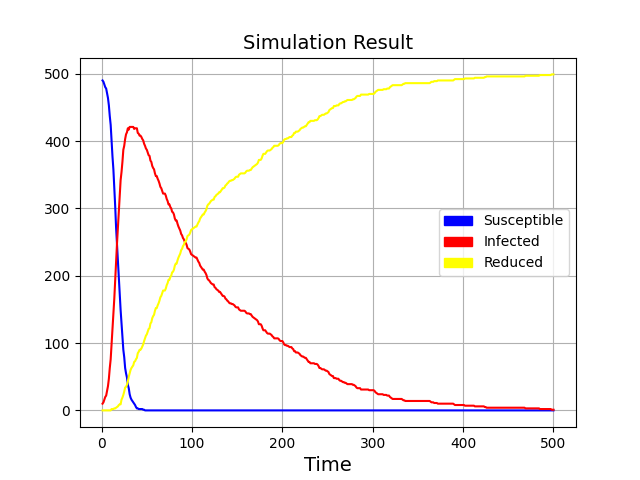
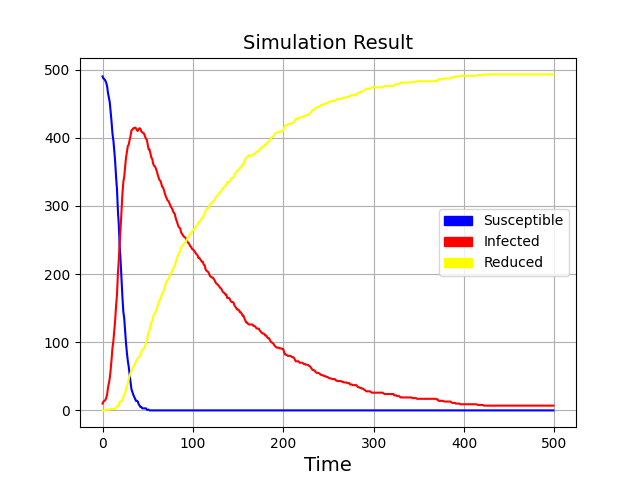
Stream RNG
- Si da la possibilità all'utente di settare il seed iniziale della simulazione, per poter replicare le simulazioni (c'è un unico stream per generazione graf e generazione random variate)

- Aggiunto calcolo del tempo impiegato per simulazione e generazione grafi

diff --git a/epidemic_sim.py b/epidemic_sim.py
@@ -5,7 +5,7 @@ import matplotlib.pyplot as plt
 import matplotlib.patches as mpatches
 import math
 from itertools import islice
-from random import randint
+# from random import randint
 import time
 import yaml
 import sys
@@ -23,6 +23,8 @@ step_p_day = 0  # number of step per day
 n_step_home = 0  # number of step at home
 n_step_work = 0  # number of step at work/school
 fr_station_user = 0  # fraction of people that use train station
+initial_seed = 0
+rg1 = None
 
 # COUNTS
 n = 0  # number of total node
@@ -58,7 +60,7 @@ precision_ctrl = True  # if True the simulator choose if the node change state w
 def generate_partitions(input_list, min_size=1, max_size=6):
     it = iter(input_list)
     while True:
-        nxt = list(islice(it, randint(min_size, max_size)))
+        nxt = list(islice(it, rg1.randint(min_size, max_size)))
         if nxt:
             yield nxt
         else:
@@ -114,7 +116,7 @@ def create_partions():
     global people_tot
     global fr_station_user
 
-    random.shuffle(people_tot)
+    rg1.shuffle(people_tot)
     n_station_user = int(fr_station_user * n)
     station_partitions = list(generate_partitions(people_tot[:n_station_user], 20, 100))
     public_transport_partitions = list(generate_partitions(people_tot[n_station_user:], 5, 40))
@@ -164,6 +166,7 @@ def first_validation(validation_type):
     global r_list
     global step_p_day
     global people_tot
+    global initial_seed
 
     with open("config_files/" + str(validation_type) + "_input.yaml", 'r') as stream:
         data = yaml.safe_load(stream)
@@ -174,6 +177,7 @@ def first_validation(validation_type):
         sigma = data["sigma"]
         gamma = data["gamma"]
         fr_inf = data["fr_inf"]
+        initial_seed = data["seed"]
         step_p_day = 1
         print("\nGraph and Time Parameters: \n")
         print("Number of Nodes: .......... " + str(n))
@@ -189,9 +193,13 @@ def first_validation(validation_type):
     # gamma = 1 - numpy.nextafter(1., 0.)
     # sigma = 50  # sys.maxsize #genero numero molto grande
     n_inf = int(fr_inf * n)
-    graph = gm.nx.erdos_renyi_graph(n, 0.05)
+
     flush_structures()
     initialize()
+    if initial_seed != 0:
+        graph = gm.nx.erdos_renyi_graph(n, 0.05, seed=rg1)
+    else:
+        graph = gm.nx.erdos_renyi_graph(n, 0.05)
     initialize_infected()
     interval_tot = n_days * step_p_day
     sim_SIR(graph, 0, interval_tot)
@@ -218,6 +226,7 @@ def second_validation(graphic_name):
     global r_list
     global step_p_day
     global people_tot
+    global initial_seed
 
     with open("config_files/" + str(graphic_name) + "_input.yaml", 'r') as stream:
         data = yaml.safe_load(stream)
@@ -229,6 +238,7 @@ def second_validation(graphic_name):
         gamma = data["gamma"]
         fr_inf = data["fr_inf"]
         step_p_day = data["step_p_day"]
+        initial_seed = data["seed"]
         print("\nGraph and Time Parameters: \n")
         print("Number of Nodes: .......... " + str(n))
         print("n days: ................... " + str(n_days))
@@ -242,11 +252,16 @@ def second_validation(graphic_name):
         print()
 
     n_inf = int(fr_inf * n)
-    graph = gm.nx.erdos_renyi_graph(n, 0.05)
+    if initial_seed != 0:
+        graph = gm.nx.erdos_renyi_graph(n, 0.05, seed=rg1)
+    else:
+        graph = gm.nx.erdos_renyi_graph(n, 0.05)
     flush_structures()
     initialize()
     initialize_infected()
     interval_tot = n_days * step_p_day
+    print(step_p_day)
+    input()
     sim_SIR(graph, 0, interval_tot)
     print_SIR_count()
     plot_SIR_result(graphic_name + "_" + str(step_p_day) + "_steps")
@@ -285,7 +300,7 @@ def flush_structures():
 
 
 def create_families_network():
-    random.shuffle(people_tot)
+    rg1.shuffle(people_tot)
     families = list(generate_partitions(people_tot, min_family_size, max_familiy_size))
     # print("families: " + str(families))
     temp_graphs = []
@@ -295,7 +310,7 @@ def create_families_network():
 
 
 def create_school_work_network():
-    random.shuffle(people_tot)
+    rg1.shuffle(people_tot)
     office_partitions = list(generate_partitions(people_tot[:n_stud], min_office_size, max_office_size))
     school_partitions = list(
         generate_partitions(people_tot[n_stud:(n_stud + n_employs)], min_school_size, max_school_size))
@@ -308,7 +323,11 @@ def create_school_work_network():
         temp_graphs.append(gm.create_school_graph(school, 0.3))
     return gm.nx.union_all(temp_graphs)
 
-
+def set_random_stream():
+    if initial_seed != 0:
+        return random.Random(initial_seed)
+    else:
+       return random.Random()
 def initialize():
     global clock
     global fr_inf
@@ -320,11 +339,13 @@ def initialize():
     global e_list
     global i_list
     global r_list
+    global seed
+    global rg1
 
-    random.seed(a=None)
+    rg1 = set_random_stream()
     clock = 0
     people_tot = [elm for elm in range(0, n)]
-    random.shuffle(people_tot)
+    rg1.shuffle(people_tot)
     initial_i = [el for el in people_tot[:n_inf]]
     i_list = [[el, 0] for el in initial_i]
     for elm in people_tot:
@@ -336,7 +357,7 @@ def initialize():
 
 def initialize_infected():
     for infect in i_list:
-        infect[1] = random.expovariate(gamma)
+        infect[1] = rg1.expovariate(gamma)
 
 
 def is_infected(elem):
@@ -366,17 +387,24 @@ def simulate():
     initialize_infected()
     print("Infetti iniziali")
     print(i_list)
+    start_time = time.time()
     fam_graph = create_families_network()
     office_school_graph = create_school_work_network()
+    end_time = time.time()
+    duration = round((end_time - start_time), 3)
+    print("Duration Graph Creation: " + str(duration) + " Seconds")
+    start_time = time.time()
     for day in range(0, n_days):
         print("day " + str(day))
         # SIMULAZIONE PRIMO CICLO
         sim_SEIR(fam_graph, day, day + n_step_home)
 
         # SIMULAZIONE SECONDO CICLO
-
-
         sim_SEIR(office_school_graph, day + n_step_home, day + n_step_home + n_step_work)
+
+    end_time = time.time()
+    duration = round((end_time - start_time), 3)
+    print("Duration SEIR Simulation: " + str(duration) + " Seconds")
 
     plot_SEIR_result("prova1")
     print_SEIR_count()
@@ -395,7 +423,6 @@ def simulate_1():
     global n_days
     global clock
     global step_p_day
-
 
     station_partitions = []
     public_transport_partitions = []
@@ -433,6 +460,7 @@ def sim_SIR(graph, start_t, end_t):
     global r_t
     global gamma
     global beta
+    global step_p_day
 
     gamma1 = gamma * (1 / step_p_day)
     beta1 = beta * (1 / step_p_day)
@@ -456,9 +484,9 @@ def sim_SIR(graph, start_t, end_t):
             ngbs = graph.neighbors(i_list[index][0])
             for ngb in ngbs:
                 if ngb in s_list:
-                    r = random.uniform(0.0, 1.0)
+                    r = rg1.uniform(0.0, 1.0)
                     if r < beta1:  # CONTAGIO
-                        duration_gamma = random.expovariate(gamma1)
+                        duration_gamma = rg1.expovariate(gamma1)
                         i_list.append([ngb, duration_gamma])
                         s_list.remove(ngb)
 
@@ -495,7 +523,7 @@ def sim_SEIR(graph, start_t, end_t):
         for index in range(len(e_list) - 1, -1, -1):
             # E --> I
             if e_list[index][1] <= 0.5:
-                duration_gamma = random.expovariate(gamma1)
+                duration_gamma = rg1.expovariate(gamma1)
                 i_list.append([e_list[index][0], duration_gamma])
                 e_list.remove(e_list[index])
             else:
@@ -504,10 +532,10 @@ def sim_SEIR(graph, start_t, end_t):
             ngbs = graph.neighbors(i_list[index][0])
             for ngb in ngbs:
                 if ngb in s_list:
-                    r = random.uniform(0.0, 1.0)
+                    r = rg1.uniform(0.0, 1.0)
                     # S --> E
                     if r < beta1:
-                        duration_sigma = random.expovariate(sigma1)
+                        duration_sigma = rg1.expovariate(sigma1)
                         e_list.append([ngb, duration_sigma])
                         s_list.remove(ngb)
 
@@ -545,7 +573,7 @@ def sim_SEIRIneff(graph, start_t, end_t, part):
         for exp in e_list:
             if exp[0] in part:
                 if exp[1] <= 0:  # abbiamo superato la durata dell'esposizione generata
-                    duration_gamma = random.expovariate(gamma1)
+                    duration_gamma = rg1.expovariate(gamma1)
                     i_list.append([exp[0], duration_gamma])
                     e_list.remove(exp)
                 else:
@@ -556,9 +584,9 @@ def sim_SEIRIneff(graph, start_t, end_t, part):
                 ngbs = graph.neighbors(elem[0])
                 for ngb in ngbs:
                     if ngb in s_list:
-                        r = random.uniform(0.0, 1.0)
+                        r = rg1.uniform(0.0, 1.0)
                         if r < beta1:  # l'infetto contatta il vicino
-                            duration_sigma = random.expovariate(sigma)
+                            duration_sigma = rg1.expovariate(sigma)
                             e_list.append([ngb, duration_sigma])
                             s_list.remove(ngb)
 
@@ -668,7 +696,7 @@ def epidemic(graph, n_days):
 
     # scelgo random gli infetti iniziali
     list_nodes = list(graph.nodes())
-    random.shuffle(list_nodes)
+    rg1.shuffle(list_nodes)
     initial_infections = list_nodes[0:n_inf]
     sim = eon.fast_SIR(graph, beta, mu, initial_infecteds=initial_infections, tmax=n_days, return_full_data=True)
     t = sim.t()
@@ -744,6 +772,7 @@ def parse_input_file():
     global n_step_home
     global n_step_work
     global n_days
+    global initial_seed
 
     with open("config_files/graph_and_time_parameters.yaml", 'r') as stream:
         data = yaml.safe_load(stream)
@@ -760,6 +789,7 @@ def parse_input_file():
         max_school_size = data["max_school_size"]
         min_office_size = data["min_office_size"]
         max_office_size = data["max_office_size"]
+        initial_seed = data["seed"]
         step_p_day = n_step_home + n_step_work
 
         print("\nGraph and Time Parameters: \n")
@@ -787,7 +817,6 @@ def parse_input_file():
         print("Gamma: .................... " + str(gamma))
         print("Number Initial Infected: .. " + str(n_inf))
         print()
-        step_p_day = n_step_home + n_step_work
 
 
 if __name__ == '__main__':
@@ -856,11 +885,18 @@ if __name__ == '__main__':
         simulate()
     elif sys.argv[1] == "compare":
         compare_with_EON("comparison")
+    elif sys.argv[1] == "random":
+        rg1 = random.Random()
+        rg1.seed(2)
+        print(rg1.random())
+        rg1.seed(1)
+        print(rg1.random())
+        rg1 = random.Random(1)
+        print(rg1.random())
+
     else:
         parse_input_file()
-        initialize()
-        create_families_network()
-        simulate()
+
         # simulate()
     # plot_SEIR_result()
 

diff --git a/graph_manager.py b/graph_manager.py
@@ -17,17 +17,17 @@ def set_graph_name(graph, name):
     type_graph.append(name)
 
 
-def create_school_graph(nodes_list, density=0.2):
+def create_school_graph(nodes_list, density=0.2, rg=None):
     graph_name = "school"
-    graph = nx.erdos_renyi_graph(len(nodes_list), density)
+    graph = nx.erdos_renyi_graph(len(nodes_list), density, seed=rg)
     res = remapping_nodes(graph, nodes_list)
     set_graph_name(res, graph_name)
     return res
 
 
-def create_office_graph(nodes_list, density=0.1):
+def create_office_graph(nodes_list, density=0.1, rg=None):
     graph_name = "office"
-    graph = nx.erdos_renyi_graph(len(nodes_list), density)  # watts_strogatz_graph(len(nodes_list), 3, density)
+    graph = nx.erdos_renyi_graph(len(nodes_list), density, seed=rg)  # watts_strogatz_graph(len(nodes_list), 3, density)
     res = remapping_nodes(graph, nodes_list)
     set_graph_name(res, graph_name)
     return res
@@ -41,11 +41,11 @@ def create_home_graph(nodes_list):
     return res
 
 
-def create_station_graph(nodes_list, density=0.05):
+def create_station_graph(nodes_list, density=0.05, rg=None):
     graph_name = "station"
     # print("Start generation graph... ")
     # start_time = time.time()
-    graph = nx.erdos_renyi_graph(len(nodes_list), density)  # watts_strogatz_graph(len(nodes_list), 3, density)
+    graph = nx.erdos_renyi_graph(len(nodes_list), density, seed=rg)  # watts_strogatz_graph(len(nodes_list), 3, density)
     # end_time = time.time()
     # duration = round((end_time - start_time), 3)
     # print("duration erdos reni: " + str(duration) + " Seconds")
@@ -59,9 +59,9 @@ def create_station_graph(nodes_list, density=0.05):
     return res
 
 
-def create_public_transport_graph(nodes_list, density=0.2):
+def create_public_transport_graph(nodes_list, density=0.2, rg=None):
     graph_name = "public_transport"
-    graph = nx.erdos_renyi_graph(len(nodes_list), density)  # watts_strogatz_graph(len(nodes_list), 3, density)
+    graph = nx.erdos_renyi_graph(len(nodes_list), density, seed=rg)  # watts_strogatz_graph(len(nodes_list), 3, density)
     res = remapping_nodes(graph, nodes_list)
     set_graph_name(res, graph_name)
     return res
